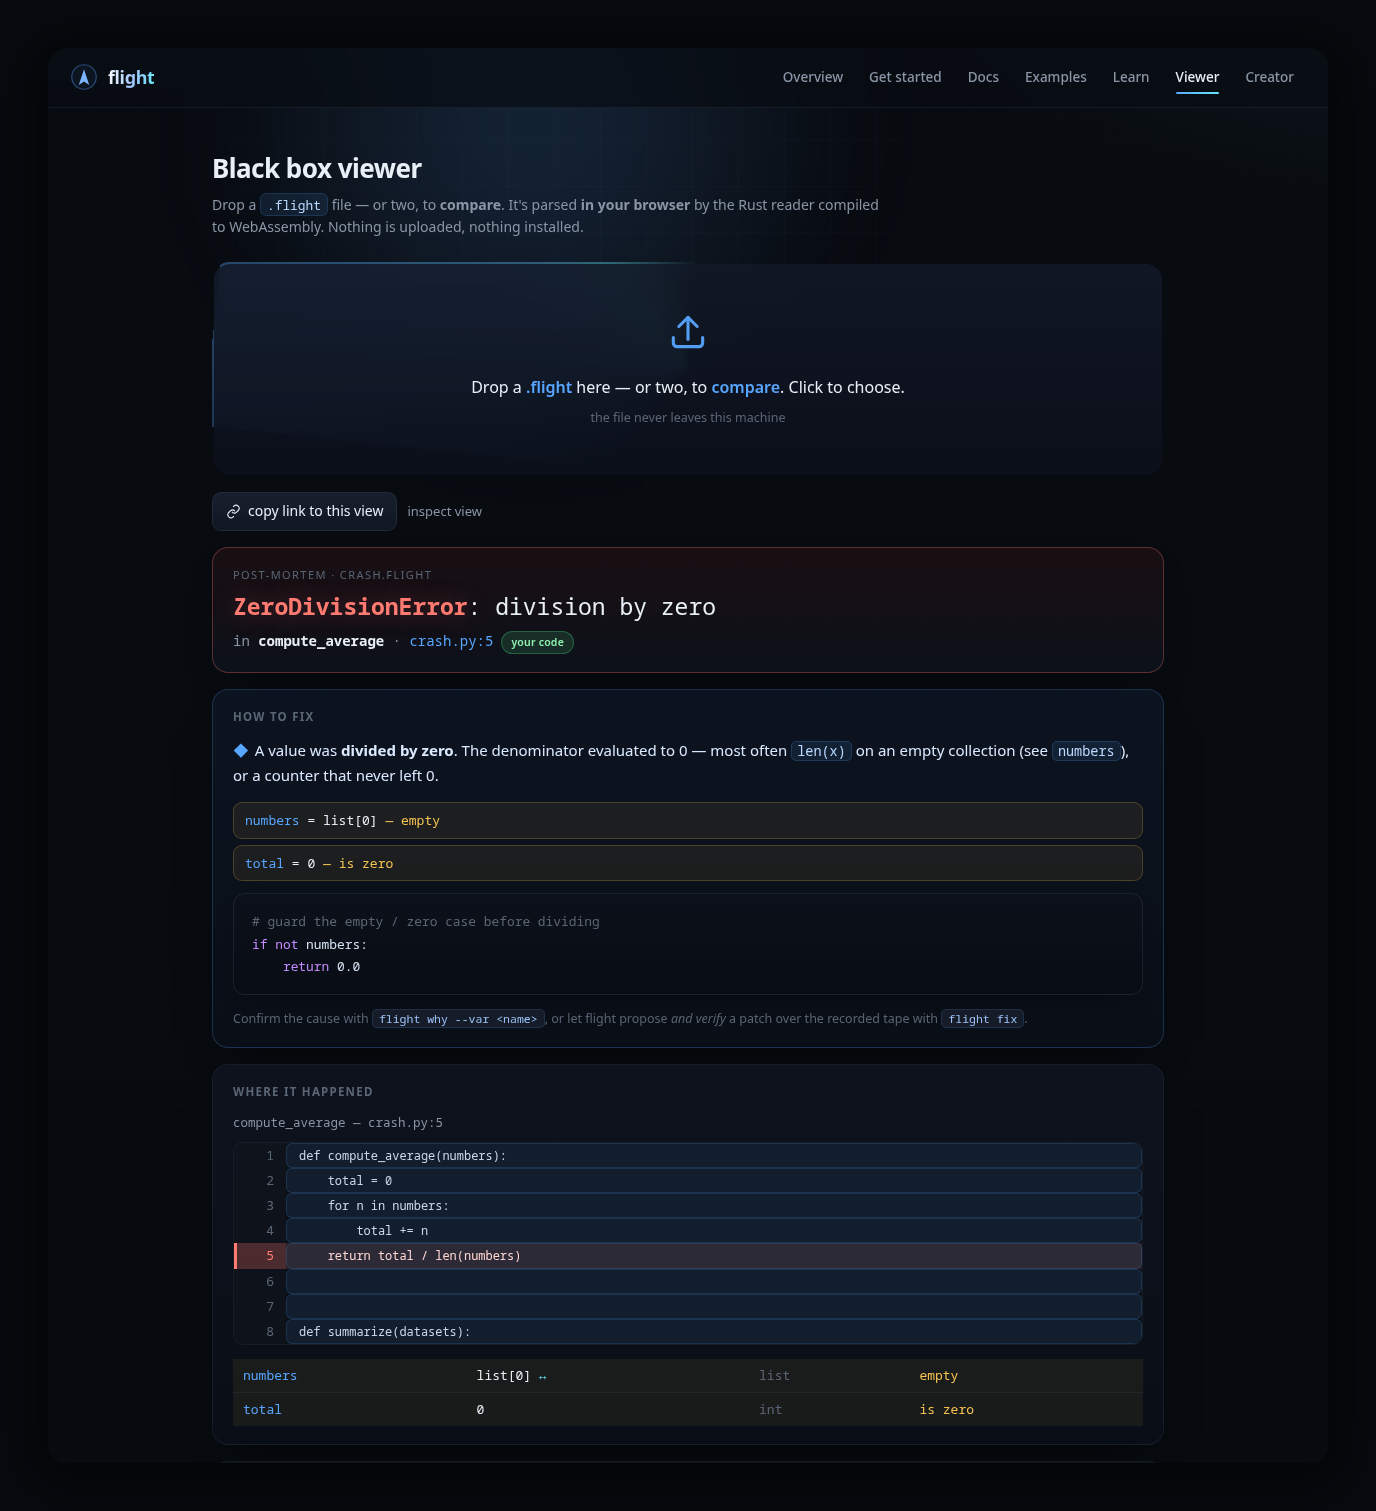
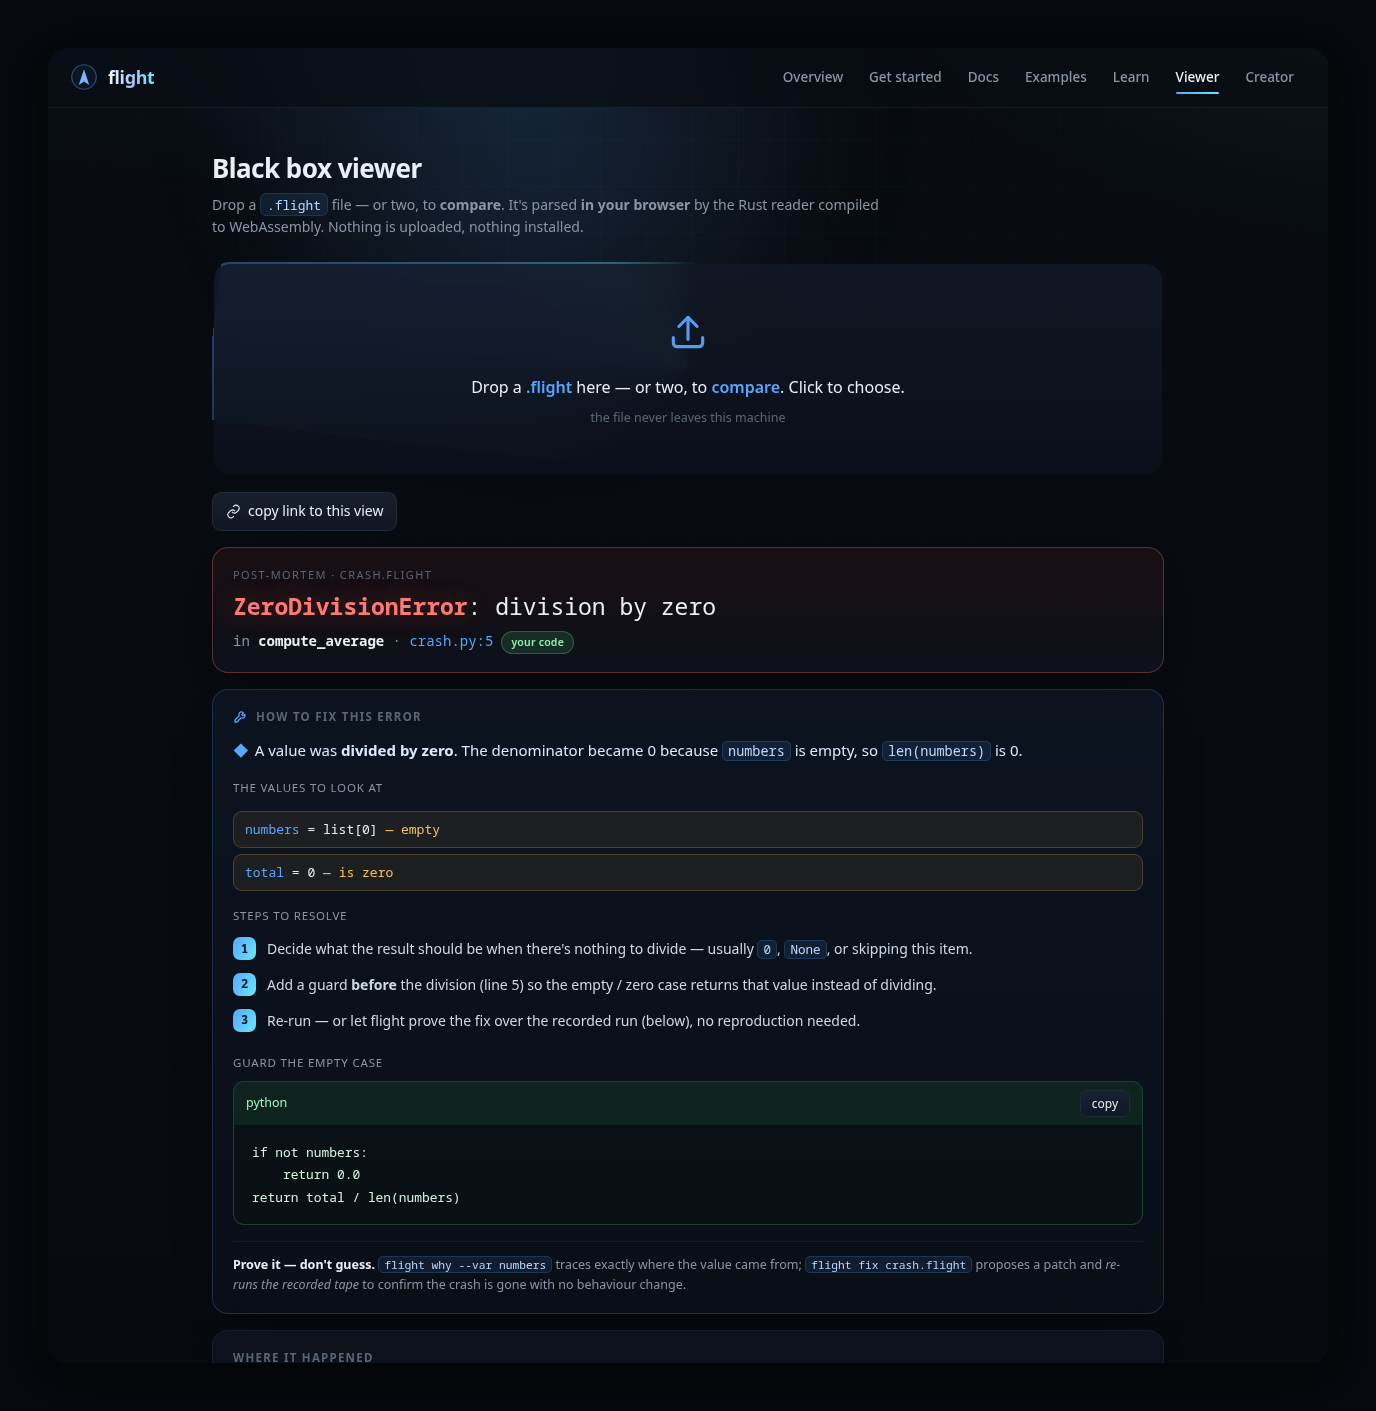
viewer: expand how-to-fix into a full resolution guide
- rename to 'How to fix this error' with cause, the suspect values,
  numbered steps to resolve, a copyable candidate fix tailored to the
  crash's variables, and a 'prove it' row wiring flight why / flight fix
- broaden coverage: ZeroDivision, Index, Key, Attribute (None vs missing),
  Type, Value, FileNotFound, Recursion, StopIteration, and a generic path

diff --git a/viewer-wasm/index.html b/viewer-wasm/index.html
@@ -276,6 +276,28 @@
   .suspects .nm { color:var(--accent); } .suspects .why { color:var(--warn); }
   .diag .more { font-family:var(--sans); color:var(--faint); font-size:12.5px; margin-top:14px; }
   .diag .more code { background:rgba(140,170,210,.1); padding:1px 6px; border-radius:5px; color:#9fc6ff; }
+  .diag h2 svg { width:16px; height:16px; vertical-align:-3px; margin-right:7px; color:var(--accent); }
+  .subh { font-family:var(--sans); color:var(--dim); font-size:11.5px; margin:16px 0 6px;
+    text-transform:uppercase; letter-spacing:.07em; }
+  .steps { counter-reset:st; list-style:none; padding:0; margin:0; }
+  .steps li { font-family:var(--sans); color:#cdd9e8; font-size:14px; line-height:1.55;
+    position:relative; padding:7px 0 7px 34px; }
+  .steps li::before { counter-increment:st; content:counter(st); position:absolute; left:0; top:6px;
+    width:23px; height:23px; border-radius:7px; display:grid; place-items:center; font-family:var(--mono);
+    font-size:12px; font-weight:700; color:#04121f; background:linear-gradient(120deg,var(--accent),var(--cyan)); }
+  .steps code, .verify code { background:rgba(88,166,255,.1); border:1px solid rgba(88,166,255,.18);
+    color:#bcd9ff; padding:0 5px; border-radius:5px; font-size:.9em; }
+  .fixbox { margin-top:8px; border:1px solid rgba(74,222,128,.24); border-radius:11px; overflow:hidden;
+    background:rgba(10,20,14,.4); }
+  .fixhead { display:flex; align-items:center; justify-content:space-between; padding:8px 12px;
+    background:rgba(74,222,128,.09); font-family:var(--sans); font-size:12.5px; color:#a7f0c0; }
+  .fixbox pre { margin:0; border:none; border-radius:0; background:transparent; box-shadow:none; }
+  .fixbox pre code { color:#d6f3e0; }
+  .copy { padding:3px 11px; font-size:12px; border-radius:7px; }
+  .copy.done { border-color:var(--ok); color:var(--ok); }
+  .verify { font-family:var(--sans); color:var(--dim); font-size:12.5px; margin-top:16px;
+    border-top:1px solid rgba(140,170,210,.09); padding-top:13px; }
+  .verify b { color:var(--ink); }
 
   .srcpath { font-family:var(--mono); color:var(--dim); font-size:12.5px; margin-bottom:9px; }
   .srcview { font-family:var(--mono); font-size:13px; border-radius:10px; overflow:hidden;
@@ -907,34 +929,91 @@ function suspicion(v) {
   return null;
 }
 
-// Plain-language cause + a candidate guard, from the exception + crash locals.
+// A step-by-step resolution from the exception + the crash frame's locals:
+// { cause(html), steps([html]), fix(plain code|null), fixLabel }.
 function diagnose(exc, crash) {
   const t = exc.type || '', m = exc.message || '';
+  const ln = crash ? crash.lineno : null;
   const empty = crash && (crash.locals || []).find(l => /\[0\]$/.test(l.value));
   const en = empty ? esc(empty.name) : null;
+  const none = crash && (crash.locals || []).find(l => l.value === 'None');
   switch (t) {
     case 'ZeroDivisionError': return {
-      cause: `A value was <b>divided by zero</b>. The denominator evaluated to 0 — most often <code>len(x)</code> on an empty collection${en?` (see <code>${en}</code>)`:''}, or a counter that never left 0.`,
-      fix: `<span class="c"># guard the empty / zero case before dividing</span>\n<span class="kw">if not</span> ${en||'denominator'}:\n    <span class="kw">return</span> 0.0` };
+      cause: `A value was <b>divided by zero</b>. The denominator became 0${en?` because <code>${en}</code> is empty, so <code>len(${en})</code> is 0`:` — often a count or length that stayed 0`}.`,
+      steps: [
+        `Decide what the result should be when there's nothing to divide — usually <code>0</code>, <code>None</code>, or skipping this item.`,
+        `Add a guard <b>before</b> the division${ln?` (line ${ln})`:''} so the empty / zero case returns that value instead of dividing.`,
+        `Re-run — or let flight prove the fix over the recorded run (below), no reproduction needed.` ],
+      fix: `if not ${en||'numbers'}:\n    return 0.0\nreturn total / len(${en||'numbers'})`,
+      fixLabel: 'Guard the empty case' };
     case 'IndexError': return {
-      cause: `An <b>index was out of range</b> — the sequence was shorter than the code assumed${en?` (<code>${en}</code> is empty)`:''}.`,
-      fix: `<span class="kw">if</span> ${en||'seq'}:\n    value = ${en||'seq'}[i]` };
+      cause: `An <b>index was out of range</b> — ${en?`<code>${en}</code> is empty, so `:''}the sequence was shorter than the code assumed.`,
+      steps: [
+        `Check the sequence isn't empty (or that the index is within <code>len(...)</code>) before you read it.`,
+        `Return a default, or skip, when it's too short.`,
+        `Confirm with flight (below).` ],
+      fix: `if ${en||'items'}:\n    value = ${en||'items'}[0]\nelse:\n    value = default`,
+      fixLabel: 'Check before indexing' };
     case 'KeyError': return {
       cause: `The key <code>${esc(m)}</code> was <b>missing from a dict</b>.`,
-      fix: `value = d.get(${esc(m)}, default)   <span class="c"># or: if ${esc(m)} in d: ...</span>` };
-    case 'AttributeError': return {
-      cause: /NoneType/.test(m)
-        ? `A value was <b>None</b> where an object was expected — a call above probably returned <code>None</code> instead of a real value.`
-        : `The object <b>didn't have the attribute</b> the code asked for — <span class="muted">${esc(m)}</span>.`, fix: null };
+      steps: [
+        `Decide a sensible default for when the key isn't present.`,
+        `Read with <code>.get(key, default)</code>, or test <code>key in d</code> first.`,
+        `If the key <em>should</em> always be there, fix whatever was supposed to set it upstream.` ],
+      fix: `value = d.get(${esc(m)}, default)   # instead of d[${esc(m)}]`,
+      fixLabel: 'Read with a default' };
+    case 'AttributeError': {
+      const nt = /NoneType/.test(m);
+      return {
+        cause: nt
+          ? `A value was <b>None</b> where an object was expected — a call above probably returned <code>None</code> instead of a real value.`
+          : `The object <b>didn't have the attribute</b> the code asked for — <span class="muted">${esc(m)}</span>.`,
+        steps: nt ? [
+          `Walk up the call stack below to find where this value became <code>None</code> (a function that returned nothing, or a missing default).`,
+          `Handle the <code>None</code> case, or make that function always return a real value.`,
+          `Confirm with flight (below).` ] : [
+          `Check the object's real type in the crash frame's locals below — it may not be what you think.`,
+          `Fix the attribute name, or convert the object to the type that has it.` ],
+        fix: nt ? `if ${none?esc(none.name):'obj'} is not None:\n    ${none?esc(none.name):'obj'}.attr   # use it here` : null,
+        fixLabel: 'Handle the None case' };
+    }
     case 'TypeError': return {
       cause: /NoneType/.test(m)
         ? `A <b>None</b> slipped into an operation that needed a real value — <span class="muted">${esc(m)}</span>.`
-        : `A value had the <b>wrong type</b> for this operation — <span class="muted">${esc(m)}</span>.`, fix: null };
-    case 'ValueError': return { cause: `Right type, <b>invalid value</b> — <span class="muted">${esc(m)}</span>.`, fix: null };
-    case 'FileNotFoundError': return { cause: `A file or path <b>didn't exist</b> when opened — <span class="muted">${esc(m)}</span>.`, fix: null };
-    case 'RecursionError': return { cause: `<b>Infinite recursion</b> — a base case is missing or never reached.`, fix: null };
-    case 'StopIteration': return { cause: `An iterator was <b>exhausted</b> — <code>next()</code> was called with nothing left.`, fix: null };
-    default: return { cause: `<b>${esc(t)}</b>${m?`: ${esc(m)}`:''}. The highlighted locals below are the usual suspects.`, fix: null };
+        : `A value had the <b>wrong type</b> for this operation — <span class="muted">${esc(m)}</span>.`,
+      steps: [
+        `Look at the operands in the crash frame's locals below and check their types.`,
+        `Guard against <code>None</code>, or convert the value to the expected type before the operation.` ],
+      fix: null, fixLabel: null };
+    case 'ValueError': return {
+      cause: `Right type, but an <b>invalid value</b> — <span class="muted">${esc(m)}</span>.`,
+      steps: [
+        `Validate or normalise the input before this point.`,
+        `Reject or coerce the bad value, and decide what to do when it's invalid.` ],
+      fix: null, fixLabel: null };
+    case 'FileNotFoundError': return {
+      cause: `A file or path <b>didn't exist</b> when it was opened — <span class="muted">${esc(m)}</span>.`,
+      steps: [
+        `Confirm the path is what you expect (check <code>cwd</code> in the recording details).`,
+        `Create it, or handle the missing-file case gracefully.` ],
+      fix: `from pathlib import Path\nif Path(path).exists():\n    ...`,
+      fixLabel: 'Check the path first' };
+    case 'RecursionError': return {
+      cause: `<b>Infinite recursion</b> — a base case is missing or never reached.`,
+      steps: [
+        `Find the recursive call in the stack below and check the argument actually shrinks toward a base case.`,
+        `Add or fix the base case that stops the recursion.` ],
+      fix: null, fixLabel: null };
+    case 'StopIteration': return {
+      cause: `An iterator was <b>exhausted</b> — <code>next()</code> was called with nothing left.`,
+      steps: [ `Give <code>next()</code> a default: <code>next(it, default)</code>, or iterate with a <code>for</code> loop.` ],
+      fix: `value = next(it, default)`, fixLabel: 'Give next() a default' };
+    default: return {
+      cause: `<b>${esc(t)}</b>${m?`: ${esc(m)}`:''}.`,
+      steps: [
+        `Start from the highlighted locals below — empty, zero or <code>None</code> values are the usual suspects.`,
+        `Trace where the bad value came from with <code>flight why</code>, then guard or fix it (below).` ],
+      fix: null, fixLabel: null };
   }
 }
 
@@ -986,16 +1065,32 @@ function render(s, name) {
       or deterministic recording. ${s.event_count} events across ${s.code_count} code objects.</div></div>`;
   }
 
-  // 2 — how to fix (heuristic, offline)
+  // 2 — how to fix this error (heuristic, offline)
   if (exc) {
     const d = diagnose(exc, crash);
     const suspects = crash ? (crash.locals||[]).map(l => [l, suspicion(l.value)]).filter(x => x[1]) : [];
-    html += `<div class="card diag"><h2>How to fix</h2><div class="cause"><span class="ic">◆</span>${d.cause}</div>`;
-    if (suspects.length) html += `<ul class="suspects">` + suspects.map(([l, why]) =>
-      `<li><span class="nm">${esc(l.name)}</span> = ${esc(l.value)} <span class="why">— ${esc(why)}</span></li>`).join('') + `</ul>`;
-    if (d.fix) html += `<pre><code>${d.fix}</code></pre>`;
-    html += `<div class="more">Confirm the cause with <code>flight why --var &lt;name&gt;</code>, or let flight
-      propose <em>and verify</em> a patch over the recorded tape with <code>flight fix</code>.</div></div>`;
+    const primary = suspects.length ? esc(suspects[0][0].name)
+      : (crash && crash.locals && crash.locals[0] ? esc(crash.locals[0].name) : 'x');
+    html += `<div class="card diag"><h2>` +
+      `<svg viewBox="0 0 24 24" fill="none" stroke="currentColor" stroke-width="1.9" stroke-linecap="round" stroke-linejoin="round"><path d="M14.7 6.3a4 4 0 0 0-5.4 5.4L3 18v3h3l6.3-6.3a4 4 0 0 0 5.4-5.4l-2.5 2.5-2-2 2.5-2.5z"/></svg>` +
+      `How to fix this error</h2><div class="cause"><span class="ic">◆</span>${d.cause}</div>`;
+    if (suspects.length) {
+      html += `<div class="subh">The values to look at</div><ul class="suspects">` + suspects.map(([l, why]) =>
+        `<li><span class="nm">${esc(l.name)}</span> = ${esc(l.value)} <span class="why">— ${esc(why)}</span></li>`).join('') + `</ul>`;
+    }
+    if (d.steps && d.steps.length) {
+      html += `<div class="subh">Steps to resolve</div><ol class="steps">` +
+        d.steps.map(s => `<li>${s}</li>`).join('') + `</ol>`;
+    }
+    if (d.fix) {
+      html += `<div class="subh">${esc(d.fixLabel || 'A candidate fix')}</div>` +
+        `<div class="fixbox"><div class="fixhead"><span>python</span>` +
+        `<button class="copy" data-copy="${esc(d.fix).replace(/"/g,'&quot;')}">copy</button></div>` +
+        `<pre><code>${esc(d.fix)}</code></pre></div>`;
+    }
+    html += `<div class="verify"><b>Prove it — don't guess.</b> <code>flight why --var ${primary}</code>
+      traces exactly where the value came from; <code>flight fix crash.flight</code> proposes a patch and
+      <em>re-runs the recorded tape</em> to confirm the crash is gone with no behaviour change.</div></div>`;
   }
 
   // 3 — where it happened: the crash frame's source + locals
@@ -1044,6 +1139,13 @@ function render(s, name) {
       const g = d.closest('details.libgroup'); if (g) g.open = true;
       d.open = true; d.scrollIntoView({ block:'center' });
     }
+  }));
+
+  // copy the candidate fix
+  out.querySelectorAll('.copy').forEach(b => b.addEventListener('click', async () => {
+    try { await navigator.clipboard.writeText(b.dataset.copy); b.textContent = 'copied ✓'; b.classList.add('done'); }
+    catch { b.textContent = 'select & copy'; }
+    setTimeout(() => { b.textContent = 'copy'; b.classList.remove('done'); }, 1600);
   }));
 }
 

diff --git a/viewer-wasm/template.html b/viewer-wasm/template.html
@@ -276,6 +276,28 @@
   .suspects .nm { color:var(--accent); } .suspects .why { color:var(--warn); }
   .diag .more { font-family:var(--sans); color:var(--faint); font-size:12.5px; margin-top:14px; }
   .diag .more code { background:rgba(140,170,210,.1); padding:1px 6px; border-radius:5px; color:#9fc6ff; }
+  .diag h2 svg { width:16px; height:16px; vertical-align:-3px; margin-right:7px; color:var(--accent); }
+  .subh { font-family:var(--sans); color:var(--dim); font-size:11.5px; margin:16px 0 6px;
+    text-transform:uppercase; letter-spacing:.07em; }
+  .steps { counter-reset:st; list-style:none; padding:0; margin:0; }
+  .steps li { font-family:var(--sans); color:#cdd9e8; font-size:14px; line-height:1.55;
+    position:relative; padding:7px 0 7px 34px; }
+  .steps li::before { counter-increment:st; content:counter(st); position:absolute; left:0; top:6px;
+    width:23px; height:23px; border-radius:7px; display:grid; place-items:center; font-family:var(--mono);
+    font-size:12px; font-weight:700; color:#04121f; background:linear-gradient(120deg,var(--accent),var(--cyan)); }
+  .steps code, .verify code { background:rgba(88,166,255,.1); border:1px solid rgba(88,166,255,.18);
+    color:#bcd9ff; padding:0 5px; border-radius:5px; font-size:.9em; }
+  .fixbox { margin-top:8px; border:1px solid rgba(74,222,128,.24); border-radius:11px; overflow:hidden;
+    background:rgba(10,20,14,.4); }
+  .fixhead { display:flex; align-items:center; justify-content:space-between; padding:8px 12px;
+    background:rgba(74,222,128,.09); font-family:var(--sans); font-size:12.5px; color:#a7f0c0; }
+  .fixbox pre { margin:0; border:none; border-radius:0; background:transparent; box-shadow:none; }
+  .fixbox pre code { color:#d6f3e0; }
+  .copy { padding:3px 11px; font-size:12px; border-radius:7px; }
+  .copy.done { border-color:var(--ok); color:var(--ok); }
+  .verify { font-family:var(--sans); color:var(--dim); font-size:12.5px; margin-top:16px;
+    border-top:1px solid rgba(140,170,210,.09); padding-top:13px; }
+  .verify b { color:var(--ink); }
 
   .srcpath { font-family:var(--mono); color:var(--dim); font-size:12.5px; margin-bottom:9px; }
   .srcview { font-family:var(--mono); font-size:13px; border-radius:10px; overflow:hidden;
@@ -907,34 +929,91 @@ function suspicion(v) {
   return null;
 }
 
-// Plain-language cause + a candidate guard, from the exception + crash locals.
+// A step-by-step resolution from the exception + the crash frame's locals:
+// { cause(html), steps([html]), fix(plain code|null), fixLabel }.
 function diagnose(exc, crash) {
   const t = exc.type || '', m = exc.message || '';
+  const ln = crash ? crash.lineno : null;
   const empty = crash && (crash.locals || []).find(l => /\[0\]$/.test(l.value));
   const en = empty ? esc(empty.name) : null;
+  const none = crash && (crash.locals || []).find(l => l.value === 'None');
   switch (t) {
     case 'ZeroDivisionError': return {
-      cause: `A value was <b>divided by zero</b>. The denominator evaluated to 0 — most often <code>len(x)</code> on an empty collection${en?` (see <code>${en}</code>)`:''}, or a counter that never left 0.`,
-      fix: `<span class="c"># guard the empty / zero case before dividing</span>\n<span class="kw">if not</span> ${en||'denominator'}:\n    <span class="kw">return</span> 0.0` };
+      cause: `A value was <b>divided by zero</b>. The denominator became 0${en?` because <code>${en}</code> is empty, so <code>len(${en})</code> is 0`:` — often a count or length that stayed 0`}.`,
+      steps: [
+        `Decide what the result should be when there's nothing to divide — usually <code>0</code>, <code>None</code>, or skipping this item.`,
+        `Add a guard <b>before</b> the division${ln?` (line ${ln})`:''} so the empty / zero case returns that value instead of dividing.`,
+        `Re-run — or let flight prove the fix over the recorded run (below), no reproduction needed.` ],
+      fix: `if not ${en||'numbers'}:\n    return 0.0\nreturn total / len(${en||'numbers'})`,
+      fixLabel: 'Guard the empty case' };
     case 'IndexError': return {
-      cause: `An <b>index was out of range</b> — the sequence was shorter than the code assumed${en?` (<code>${en}</code> is empty)`:''}.`,
-      fix: `<span class="kw">if</span> ${en||'seq'}:\n    value = ${en||'seq'}[i]` };
+      cause: `An <b>index was out of range</b> — ${en?`<code>${en}</code> is empty, so `:''}the sequence was shorter than the code assumed.`,
+      steps: [
+        `Check the sequence isn't empty (or that the index is within <code>len(...)</code>) before you read it.`,
+        `Return a default, or skip, when it's too short.`,
+        `Confirm with flight (below).` ],
+      fix: `if ${en||'items'}:\n    value = ${en||'items'}[0]\nelse:\n    value = default`,
+      fixLabel: 'Check before indexing' };
     case 'KeyError': return {
       cause: `The key <code>${esc(m)}</code> was <b>missing from a dict</b>.`,
-      fix: `value = d.get(${esc(m)}, default)   <span class="c"># or: if ${esc(m)} in d: ...</span>` };
-    case 'AttributeError': return {
-      cause: /NoneType/.test(m)
-        ? `A value was <b>None</b> where an object was expected — a call above probably returned <code>None</code> instead of a real value.`
-        : `The object <b>didn't have the attribute</b> the code asked for — <span class="muted">${esc(m)}</span>.`, fix: null };
+      steps: [
+        `Decide a sensible default for when the key isn't present.`,
+        `Read with <code>.get(key, default)</code>, or test <code>key in d</code> first.`,
+        `If the key <em>should</em> always be there, fix whatever was supposed to set it upstream.` ],
+      fix: `value = d.get(${esc(m)}, default)   # instead of d[${esc(m)}]`,
+      fixLabel: 'Read with a default' };
+    case 'AttributeError': {
+      const nt = /NoneType/.test(m);
+      return {
+        cause: nt
+          ? `A value was <b>None</b> where an object was expected — a call above probably returned <code>None</code> instead of a real value.`
+          : `The object <b>didn't have the attribute</b> the code asked for — <span class="muted">${esc(m)}</span>.`,
+        steps: nt ? [
+          `Walk up the call stack below to find where this value became <code>None</code> (a function that returned nothing, or a missing default).`,
+          `Handle the <code>None</code> case, or make that function always return a real value.`,
+          `Confirm with flight (below).` ] : [
+          `Check the object's real type in the crash frame's locals below — it may not be what you think.`,
+          `Fix the attribute name, or convert the object to the type that has it.` ],
+        fix: nt ? `if ${none?esc(none.name):'obj'} is not None:\n    ${none?esc(none.name):'obj'}.attr   # use it here` : null,
+        fixLabel: 'Handle the None case' };
+    }
     case 'TypeError': return {
       cause: /NoneType/.test(m)
         ? `A <b>None</b> slipped into an operation that needed a real value — <span class="muted">${esc(m)}</span>.`
-        : `A value had the <b>wrong type</b> for this operation — <span class="muted">${esc(m)}</span>.`, fix: null };
-    case 'ValueError': return { cause: `Right type, <b>invalid value</b> — <span class="muted">${esc(m)}</span>.`, fix: null };
-    case 'FileNotFoundError': return { cause: `A file or path <b>didn't exist</b> when opened — <span class="muted">${esc(m)}</span>.`, fix: null };
-    case 'RecursionError': return { cause: `<b>Infinite recursion</b> — a base case is missing or never reached.`, fix: null };
-    case 'StopIteration': return { cause: `An iterator was <b>exhausted</b> — <code>next()</code> was called with nothing left.`, fix: null };
-    default: return { cause: `<b>${esc(t)}</b>${m?`: ${esc(m)}`:''}. The highlighted locals below are the usual suspects.`, fix: null };
+        : `A value had the <b>wrong type</b> for this operation — <span class="muted">${esc(m)}</span>.`,
+      steps: [
+        `Look at the operands in the crash frame's locals below and check their types.`,
+        `Guard against <code>None</code>, or convert the value to the expected type before the operation.` ],
+      fix: null, fixLabel: null };
+    case 'ValueError': return {
+      cause: `Right type, but an <b>invalid value</b> — <span class="muted">${esc(m)}</span>.`,
+      steps: [
+        `Validate or normalise the input before this point.`,
+        `Reject or coerce the bad value, and decide what to do when it's invalid.` ],
+      fix: null, fixLabel: null };
+    case 'FileNotFoundError': return {
+      cause: `A file or path <b>didn't exist</b> when it was opened — <span class="muted">${esc(m)}</span>.`,
+      steps: [
+        `Confirm the path is what you expect (check <code>cwd</code> in the recording details).`,
+        `Create it, or handle the missing-file case gracefully.` ],
+      fix: `from pathlib import Path\nif Path(path).exists():\n    ...`,
+      fixLabel: 'Check the path first' };
+    case 'RecursionError': return {
+      cause: `<b>Infinite recursion</b> — a base case is missing or never reached.`,
+      steps: [
+        `Find the recursive call in the stack below and check the argument actually shrinks toward a base case.`,
+        `Add or fix the base case that stops the recursion.` ],
+      fix: null, fixLabel: null };
+    case 'StopIteration': return {
+      cause: `An iterator was <b>exhausted</b> — <code>next()</code> was called with nothing left.`,
+      steps: [ `Give <code>next()</code> a default: <code>next(it, default)</code>, or iterate with a <code>for</code> loop.` ],
+      fix: `value = next(it, default)`, fixLabel: 'Give next() a default' };
+    default: return {
+      cause: `<b>${esc(t)}</b>${m?`: ${esc(m)}`:''}.`,
+      steps: [
+        `Start from the highlighted locals below — empty, zero or <code>None</code> values are the usual suspects.`,
+        `Trace where the bad value came from with <code>flight why</code>, then guard or fix it (below).` ],
+      fix: null, fixLabel: null };
   }
 }
 
@@ -986,16 +1065,32 @@ function render(s, name) {
       or deterministic recording. ${s.event_count} events across ${s.code_count} code objects.</div></div>`;
   }
 
-  // 2 — how to fix (heuristic, offline)
+  // 2 — how to fix this error (heuristic, offline)
   if (exc) {
     const d = diagnose(exc, crash);
     const suspects = crash ? (crash.locals||[]).map(l => [l, suspicion(l.value)]).filter(x => x[1]) : [];
-    html += `<div class="card diag"><h2>How to fix</h2><div class="cause"><span class="ic">◆</span>${d.cause}</div>`;
-    if (suspects.length) html += `<ul class="suspects">` + suspects.map(([l, why]) =>
-      `<li><span class="nm">${esc(l.name)}</span> = ${esc(l.value)} <span class="why">— ${esc(why)}</span></li>`).join('') + `</ul>`;
-    if (d.fix) html += `<pre><code>${d.fix}</code></pre>`;
-    html += `<div class="more">Confirm the cause with <code>flight why --var &lt;name&gt;</code>, or let flight
-      propose <em>and verify</em> a patch over the recorded tape with <code>flight fix</code>.</div></div>`;
+    const primary = suspects.length ? esc(suspects[0][0].name)
+      : (crash && crash.locals && crash.locals[0] ? esc(crash.locals[0].name) : 'x');
+    html += `<div class="card diag"><h2>` +
+      `<svg viewBox="0 0 24 24" fill="none" stroke="currentColor" stroke-width="1.9" stroke-linecap="round" stroke-linejoin="round"><path d="M14.7 6.3a4 4 0 0 0-5.4 5.4L3 18v3h3l6.3-6.3a4 4 0 0 0 5.4-5.4l-2.5 2.5-2-2 2.5-2.5z"/></svg>` +
+      `How to fix this error</h2><div class="cause"><span class="ic">◆</span>${d.cause}</div>`;
+    if (suspects.length) {
+      html += `<div class="subh">The values to look at</div><ul class="suspects">` + suspects.map(([l, why]) =>
+        `<li><span class="nm">${esc(l.name)}</span> = ${esc(l.value)} <span class="why">— ${esc(why)}</span></li>`).join('') + `</ul>`;
+    }
+    if (d.steps && d.steps.length) {
+      html += `<div class="subh">Steps to resolve</div><ol class="steps">` +
+        d.steps.map(s => `<li>${s}</li>`).join('') + `</ol>`;
+    }
+    if (d.fix) {
+      html += `<div class="subh">${esc(d.fixLabel || 'A candidate fix')}</div>` +
+        `<div class="fixbox"><div class="fixhead"><span>python</span>` +
+        `<button class="copy" data-copy="${esc(d.fix).replace(/"/g,'&quot;')}">copy</button></div>` +
+        `<pre><code>${esc(d.fix)}</code></pre></div>`;
+    }
+    html += `<div class="verify"><b>Prove it — don't guess.</b> <code>flight why --var ${primary}</code>
+      traces exactly where the value came from; <code>flight fix crash.flight</code> proposes a patch and
+      <em>re-runs the recorded tape</em> to confirm the crash is gone with no behaviour change.</div></div>`;
   }
 
   // 3 — where it happened: the crash frame's source + locals
@@ -1044,6 +1139,13 @@ function render(s, name) {
       const g = d.closest('details.libgroup'); if (g) g.open = true;
       d.open = true; d.scrollIntoView({ block:'center' });
     }
+  }));
+
+  // copy the candidate fix
+  out.querySelectorAll('.copy').forEach(b => b.addEventListener('click', async () => {
+    try { await navigator.clipboard.writeText(b.dataset.copy); b.textContent = 'copied ✓'; b.classList.add('done'); }
+    catch { b.textContent = 'select & copy'; }
+    setTimeout(() => { b.textContent = 'copy'; b.classList.remove('done'); }, 1600);
   }));
 }
 